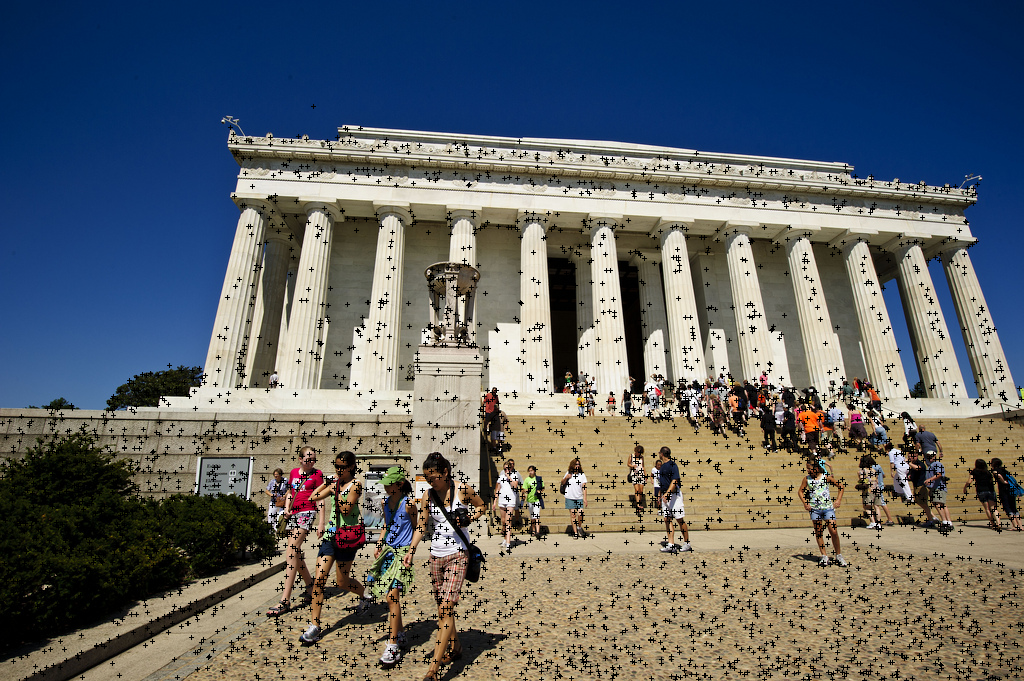
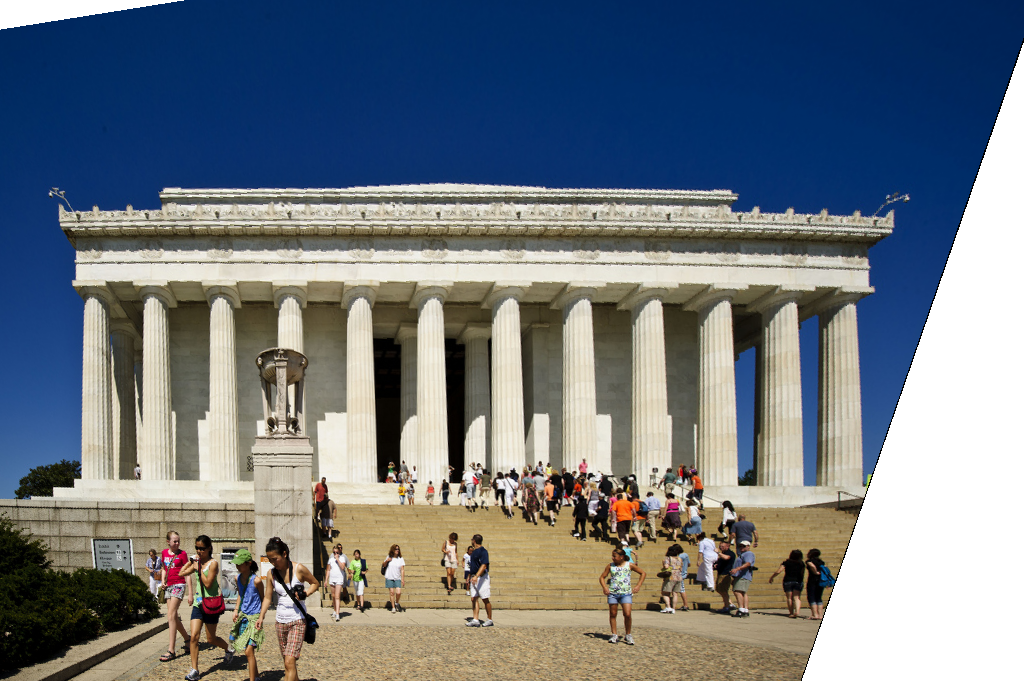
Part1 q1 interpolation done

diff --git a/a2.cpp b/a2.cpp
@@ -113,21 +113,24 @@ vector<vector<int> > quantize_vectors(const vector<SiftDescriptor> descriptors,
 	return result;
 }
 
-void inverseWarp(CImg<double> input_image, CImg<double> warped,
-	double transformation[3][3], int flag = 0) {
+void inverseWarp(CImg<double> input_image, CImg<double> &warped,
+		double transformation[3][3], int flag = 0) {
 	double sum = 0.0;
 	warped.fill(255, 255, 255);
 	double coordinates[3] = { 0, 0, 1.0 };
 	double out[3] = { 0, 0, 0 };
 
-	//double transformation1[3][3] = { 0.907, 0.258, -182.0, -0.153, 1.44, 58.0, -0.000306, 0.000731, 1.0 };
+	double transformation1[3][3] = { 0.907, 0.258, -182.0, -0.153, 1.44, 58.0,
+			-0.000306, 0.000731, 1.0 };
 	//double transformation1[3][3] = { 1,0,0,0.51482,0,0,0,0,1 };
-	double transformation1[3][3] = { 1.3468,0,0,1.309,0,0,0,0,1 };
+	//double transformation1[3][3] = { 1.3468,0,0,1.309,0,0,0,0,1 };
+	//double transformation1[3][3] = { 0.708683, 0, 0, 1.11204, 0, 0, 0, 0, 1 };
+
 	if (flag == 1) {
 		transformation = transformation1;
 	}
 
-	//cout << transformation[0][0] << "\n";
+	//cout << transformation[0][0] << endl << "";
 	double t_inv[3][3];
 	double det = transformation[0][0]
 			* (transformation[1][1] * transformation[2][2]
@@ -139,7 +142,7 @@ void inverseWarp(CImg<double> input_image, CImg<double> warped,
 					* (transformation[1][0] * transformation[2][1]
 							- transformation[1][1] * transformation[2][0]);
 
-	cout << "\nDeterminant:" << det << "\n\n";
+	cout << endl << "Determinant:" << det << endl;
 	double invdet = 1 / det;
 
 	t_inv[0][0] = invdet
@@ -170,6 +173,7 @@ void inverseWarp(CImg<double> input_image, CImg<double> warped,
 			* (transformation[0][0] * transformation[1][1]
 					- transformation[1][0] * transformation[0][1]);
 
+	int p1x,p1x2,p1y,p1y2;
 	for (int x = 0; x < input_image.width(); x++) {
 		for (int y = 0; y < input_image.height(); y++) {
 			coordinates[0] = x;
@@ -184,17 +188,42 @@ void inverseWarp(CImg<double> input_image, CImg<double> warped,
 			out[1] = out[1] / out[2];
 			out[0] = out[0] / out[2];
 
-			if (out[0] < input_image.width() && out[0] >= 0
-					&& out[1] < input_image.height() && out[1] >= 0) {
-				warped(x, y, 0, 0) = input_image(floor(out[0]), floor(out[1]),
-						0, 0);
-				warped(x, y, 0, 1) = input_image(floor(out[0]), floor(out[1]),
-						0, 1);
-				warped(x, y, 0, 2) = input_image(floor(out[0]), floor(out[1]),
-						0, 2);
+			int p1x=out[0],p1x2=p1x+1;
+			if(p1x2>=input_image.width()) {
+				p1x2=input_image.width()-1;
+			}
+
+			int p1y=out[1], p1y2=p1y+1;
+			if(p1y2>=input_image.height()) {
+				p1y2=input_image.height()-1;
+			}
+
+			if (out[0] < input_image.width() && out[0] >= 0 && out[1] < input_image.height() && out[1] >= 0) {
+				//references for interpolation:
+				//1. www.csee.wvu.edu/~xinl/courses/ee465/image_interpolation.ppt
+				//2. https://www.cis.rit.edu/class/simg782/lectures/lecture_02/lec782_05_02.pdf
+				//3. https://kogs-www.informatik.uni-hamburg.de/~neumann/BV-WS-2007/BV-3-07.pdf
+				warped(x, y, 0, 0) =	input_image(p1x,p1y,0,0) * ((out[1]-p1y)*(p1x2-out[0]))/((p1x2-p1x)*(p1y2-p1y)) +
+										input_image(p1x2,p1y,0,0) * (((out[0]-p1x)*(p1y2-out[1]))/((p1x2-p1x)*(p1y2-p1y))) +
+										input_image(p1x,p1y,0,0) * (((p1y2-out[1])*(p1x2-out[0]))/((p1x2-p1x)*(p1y2-p1y))) +
+										input_image(p1x2,p1y2,0,0) * ((out[0]-p1x)*(out[1]-p1y))/((p1x2-p1x)*(p1y2-p1y));
+				warped(x, y, 0, 1) =	input_image(p1x,p1y,0,1) * ((out[1]-p1y)*(p1x2-out[0]))/((p1x2-p1x)*(p1y2-p1y)) +
+										input_image(p1x2,p1y,0,1) * (((out[0]-p1x)*(p1y2-out[1]))/((p1x2-p1x)*(p1y2-p1y))) +
+										input_image(p1x,p1y,0,1) * (((p1y2-out[1])*(p1x2-out[0]))/((p1x2-p1x)*(p1y2-p1y))) +
+										input_image(p1x2,p1y2,0,1) * ((out[0]-p1x)*(out[1]-p1y))/((p1x2-p1x)*(p1y2-p1y));
+				warped(x, y, 0, 2) =	input_image(p1x,p1y,0,2) * ((out[1]-p1y)*(p1x2-out[0]))/((p1x2-p1x)*(p1y2-p1y)) +
+										input_image(p1x2,p1y,0,2) * (((out[0]-p1x)*(p1y2-out[1]))/((p1x2-p1x)*(p1y2-p1y))) +
+										input_image(p1x,p1y,0,2) * (((p1y2-out[1])*(p1x2-out[0]))/((p1x2-p1x)*(p1y2-p1y))) +
+										input_image(p1x2,p1y2,0,2) * ((out[0]-p1x)*(out[1]-p1y))/((p1x2-p1x)*(p1y2-p1y));
+
+				//without interpolation, it gives correct output but a little staggered. Pixels are out of its grid space in the target location
+				//warped(x, y, 0, 0) = input_image(floor(out[0]), floor(out[1]), 0, 0);
+				//warped(x, y, 0, 1) = input_image(floor(out[0]), floor(out[1]), 0, 1);
+				//warped(x, y, 0, 2) = input_image(floor(out[0]), floor(out[1]), 0, 2);
 			}
 		}
 	}
+
 }
 
 void convert_to_3x3(CImg<double> h, double homography[3][3]) {
@@ -213,7 +242,7 @@ void question3(string inputFile, int filecount, vector<string> filelist,
 		string place) {
 // Getting image vector for input image and forming descriptors
 
-	cout << "Matches for file: " << inputFile << " \n";
+	cout << "Matches for file: " << inputFile << endl;
 	CImg<double> input_image(inputFile.c_str());
 	int imgwidth = input_image.width();
 	CImg<double> gray = input_image.get_RGBtoHSI().get_channel(2);
@@ -242,23 +271,23 @@ void question3(string inputFile, int filecount, vector<string> filelist,
 		int ind = descriptors2.size() / 40;
 		max_matches[i] = distances[ind];
 		images[i] = filelist[i];
-// cout<<"completed for: "<<filelist[i]<<"\n";
+// cout<<"completed for: "<<filelist[i]<<endl << "";
 	}
 
 	quicksort(max_matches, images, 0, filecount - 1);
 
-	cout << "The match status is : \n";
+	cout << "The match status is : " << endl;
 	int correct = 0;
 	for (int i = 0; i < 10; i++) {
 		cout << "image: " << images[i] << " \t|| matches: " << max_matches[i]
-				<< "\n";
+				<< endl;
 		if ((place.length() < images[i].length())
 				&& (images[i].find(place) != std::string::npos)) {
 			correct++;
 		}
 	}
 
-	cout << "Precision = " << float(correct) / 10.0 << "\n";
+	cout << "Precision = " << float(correct) / 10.0 << endl;
 }
 
 void question4(const CImg<double> input_image,
@@ -319,22 +348,22 @@ void question4(const CImg<double> input_image,
 		match_ratio = temp_dists[ind];
 		max_matches[i] = match_ratio;
 		images[i] = filelist[i];
-// cout<<"Matches: "<<match_ratio<<" for image: "<<infile2<<"\n";
+// cout<<"Matches: "<<match_ratio<<" for image: "<<infile2<<endl << "";
 	}
 	quicksort(max_matches, images, 0, filecount - 1);
 
-	cout << "The match status is : \n";
+	cout << "The match status is : " << endl;
 	int correct = 0;
 	for (int i = 0; i < 10; i++) {
 		cout << "image: " << images[i] << " \t|| matches: " << max_matches[i]
-				<< "\n";
+				<< endl;
 		if ((place.length() < images[i].length())
 				&& (images[i].find(place) != std::string::npos)) {
 			correct++;
 		}
 	}
 
-	cout << "Precision = " << float(correct) / 10.0 << "\n";
+	cout << "Precision = " << float(correct) / 10.0 << endl;
 }
 
 int main(int argc, char **argv) {
@@ -372,9 +401,9 @@ int main(int argc, char **argv) {
 
 				// char temp_result[1024];
 				// int dirmove = chdir(result);
-				// cout<<"picking random...\n";
+				// cout<<"picking random..." << endl;
 				// int imgindex = (rand() % filecount)+1;
-				// cout<< "picked image : "<<filelist[imgindex]<<"\n";
+				// cout<< "picked image : "<<filelist[imgindex]<<endl << "";
 				// string inputFile = strcpy(temp_result, filelist[imgindex].c_str());
 				// string place = inputFile.substr(0, inputFile.find("_"));
 				int dirmove = chdir(result);
@@ -391,9 +420,9 @@ int main(int argc, char **argv) {
 
 				char temp_result[1024];
 				int dirmove = chdir(result);
-				cout << "picking random...\n";
+				cout << "picking random..." << endl;
 				int imgindex = (rand() % filecount) + 1;
-				cout << "picked image : " << filelist[imgindex] << "\n";
+				cout << "picked image : " << filelist[imgindex] << endl << "";
 				string inputFile = strcpy(temp_result,
 						filelist[imgindex].c_str());
 				string place = inputFile.substr(0, inputFile.find("_"));
@@ -408,7 +437,7 @@ int main(int argc, char **argv) {
 
 				int trials = 3;
 				for (int r = 0; r < trials; r++) {
-					cout << "Trial : " << r << " \n";
+					cout << "Trial : " << r << " " << endl;
 					question4(input_image, descriptors, filecount, filelist,
 							place);
 				}
@@ -513,12 +542,12 @@ int main(int argc, char **argv) {
 
 					quicksort(max_matches, images, 0, argc - 5);
 
-					cout << "The match status is : \n";
+					cout << "The match status is : " << endl;
 
 					for (int i = 0; i < argc - 4; i++) {
 
 						cout << "image: " << images[i] << " || matches: "
-								<< max_matches[i] << "\n";
+								<< max_matches[i] << endl << "";
 
 					}
 
@@ -528,7 +557,7 @@ int main(int argc, char **argv) {
 			}
 		} else if (part == "part2") {
 			if (question == "q1") {
-				cout << "Part2 - Question 1:" << '\n';
+				cout << "Part2 - Question 1:" << endl;
 				string inputFile = argv[3];
 				CImg<double> input_image(inputFile.c_str());
 				CImg<double> warped = input_image;
@@ -536,7 +565,7 @@ int main(int argc, char **argv) {
 				inverseWarp(input_image, warped, transformation, 1);
 				warped.save("part2-q1.png");
 			} else if (question == "q2") {
-				cout << "Part2 - Question 2:" << '\n';
+				cout << "Part2 - Question 2:" << endl;
 				if (argc < 4) {
 					cout << "Insufficent number of arguments; correct usage:"
 							<< endl;
@@ -595,10 +624,9 @@ int main(int argc, char **argv) {
 				}
 
 				//increase this to try more sets of points
-				int q = -1, reps = 500;
-				while (q < reps) {
-					q++;
-					cout << "\n\nRep:" << q;
+				int reps = 500;
+				for (int q = 0; q < reps; q++) {
+					cout << endl << "Rep:" << q << endl;
 					inliers = 0;
 					for (r = 0; r < 4; r++) {
 						// gives a random number between 0 and image width
@@ -611,7 +639,6 @@ int main(int argc, char **argv) {
 						y_dash[r] = matches[rand_y].row;
 					}
 					//calculating the 1st matrix trans and 3rd matrix new_coords (lec09_slide40)
-					//cout << "\nDone with 4 points";
 					for (k = 0; k < 8; k += 2) {
 						int u = k / 2;
 						trans(0, k) = x[u];
@@ -626,22 +653,20 @@ int main(int argc, char **argv) {
 						trans(7, k + 1) = -y[u] * y_dash[u];
 						new_coords(0, k + 1) = y_dash[u];
 					}
-					//cout << "\nDone with trans inits";
-					h = new_coords.solve(trans);
-					/*cout << "\ntrans: ";
-					for (int v = 0; v < 8; v++) {
-						for (int l = 0; l < 8; l++)
-							cout << trans(v,l) << " ";
-						cout << "\n";
-					}
-					cout << "\nnew_coords: ";
-					for (int v = 0; v < 8; v++)
-						cout << new_coords(0, v) << " ";
-					cout << "\n";*/
+					h = new_coords;
+					h.solve(trans);
+					/*cout << endl << "trans: ";
+					 for (int v = 0; v < 8; v++) {
+					 for (int l = 0; l < 8; l++)
+					 cout << trans(v,l) << " ";
+					 cout << endl << "";
+					 }
+					 cout << endl << "new_coords: ";
+					 for (int v = 0; v < 8; v++)
+					 cout << new_coords(0, v) << " ";
+					 cout << endl << "";*/
 
-					//cout << "\nafter solve";
 					convert_to_3x3(h, homography);
-					//cout << "\nafter converting to 3x3";
 					for (int m = 0; m < descriptors.size() - 1; m++) {
 						image_x = descriptors[m].col;
 						image_y = descriptors[m].row;
@@ -658,13 +683,13 @@ int main(int argc, char **argv) {
 						new_image_x_dash /= new_image_w_dash;
 						new_image_y_dash /= new_image_w_dash;
 
-						//cout << endl;
+						cout << endl;
 						for (int b = 0; b < 3; b++)
 							for (int c = 0; c < 3; c++)
 								cout << homography[b][c] << " ";
-						//cout << endl;
+						cout << endl;
 
-						cout << "\nnew: " << new_image_x_dash << ","
+						cout << endl << "new: " << new_image_x_dash << ","
 								<< new_image_y_dash << endl;
 						cout << "img: " << image_x_dash << "," << image_y_dash;
 
@@ -680,26 +705,26 @@ int main(int argc, char **argv) {
 							}
 						}
 					}
-					cout << "\n Inliers: " << inliers;
+					cout << " Inliers: " << inliers << endl;
 					if (max_inliers < inliers) {
 						max_inliers = inliers;
 						global_h = h;
-						/*cout << "\nh: ";
+						cout << endl << "h: ";
 						for (int v = 0; v < 8; v++)
 							cout << h(0, v) << " ";
 
 						cout << endl << "global: ";
 						for (int v = 0; v < 8; v++)
 							cout << global_h(0, v) << " ";
-						*/
+
 					}
-					//cout<<"\nfinishing one loop";
+
 				}
-				cout << "\nGlobal h: ";
+				cout << endl << "Global h: ";
 				for (int g = 0; g < 8; g++) {
 					cout << global_h(0, g) << " ";
 				}
-				cout << "\n\n";
+				cout << endl;
 			}
 
 		} else
